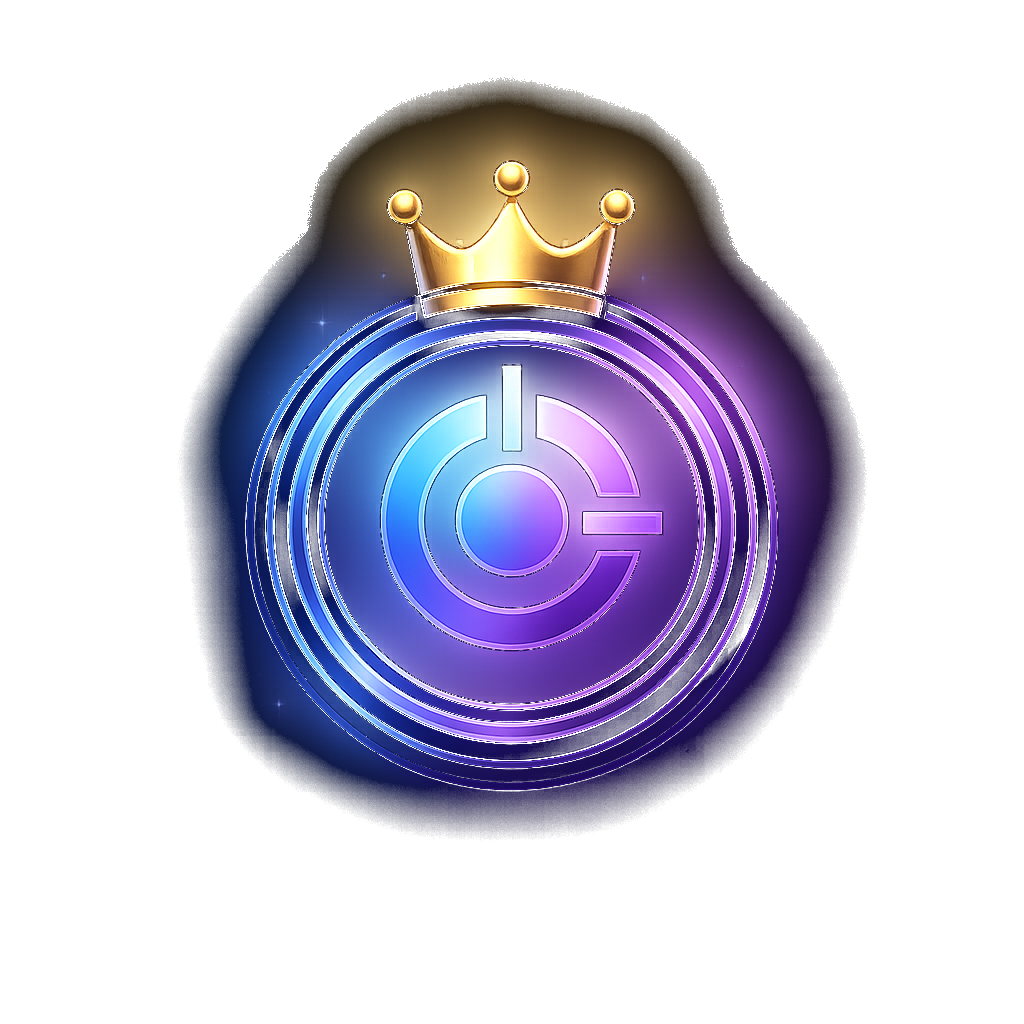
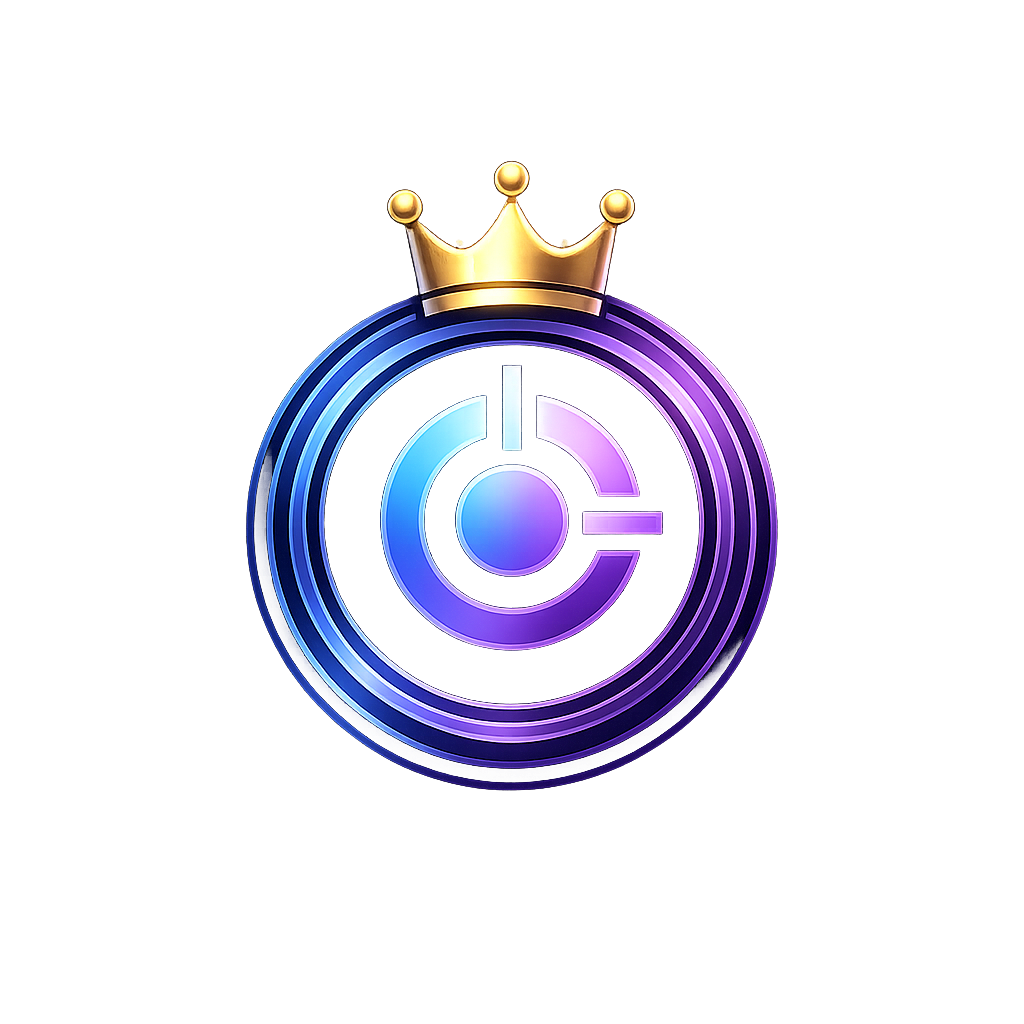
Update ranking screenshot, crown orb image, and README caption

Changed region(s): [[0.1562, 0.0625, 0.8438, 0.8125]]

diff --git a/resources/views/reviews/ranking.blade.php b/resources/views/reviews/ranking.blade.php
@@ -127,8 +127,9 @@
   border-radius: 50%;
 }
 #ranking-crown {
-  width: 88px; height: 88px; object-fit: contain; display: block;
-  opacity: 0.5;
+  width: 160px; height: 160px; object-fit: contain; display: block;
+  margin-bottom: -16px;
+  opacity: 0.85;
   filter: drop-shadow(0 0 10px rgba(120,90,255,0.3));
   transition: opacity 0.35s, transform 0.35s;
 }

diff --git a/README.md b/README.md
@@ -72,7 +72,7 @@ saved to your Library (Dev Journal), allowing you to build a personal knowledge 
 </p>
 
 **🏆 Ranking**
-*Compare reviewed repositories on the leaderboard.*
+*Compare repositories, discover rising projects, and climb to the Hall of Fame.*
 
 <p align="center">
   <img src="docs/images/ranking.jpg" alt="Ranking" width="820">